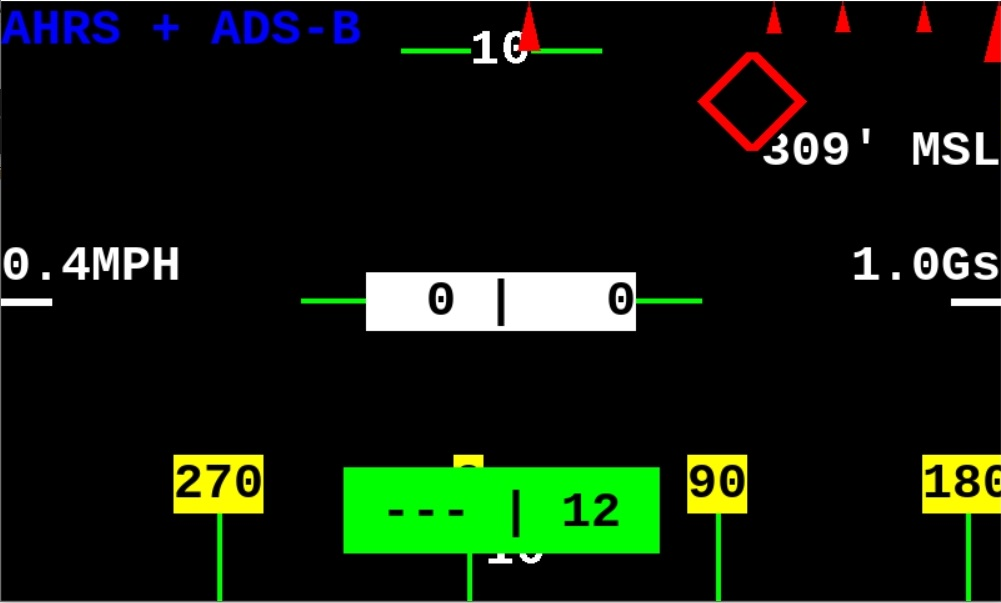
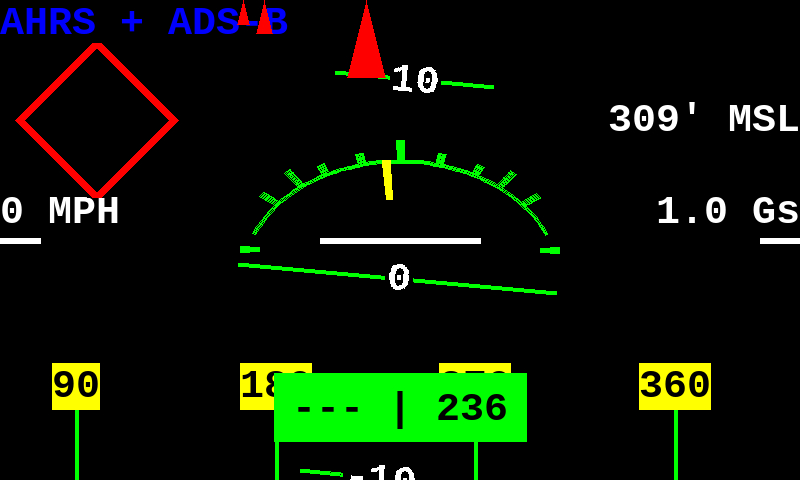
Update documentations to reflect V1.5

diff --git a/readme.md b/readme.md
@@ -60,7 +60,7 @@ Esc       | Send shutdown commands to both the HUD controller **and** the Stratu
 q         | (_Full keyboard only_) Quit to the command line.
 0/Ins     | Force a connection reset between the HUD and the Stratux
 
-## Views
+## Included (Default) Views
 
 - AHRS + ADS-B
 - Traffic
@@ -72,18 +72,18 @@ q         | (_Full keyboard only_) Quit to the command line.
 
 ### AHRS + ADS-B View
 
-![Traffic View Screenshot](media/ahrs_plus_adsb_view.jpg)
+![AHRS + ADS-B](media/ahrs_plus_adsb_view.jpg)
 
 This view shows attitude information along with targetting bugs that show the relative position and distance of traffic.
 
 In this example:
 
-- There are five potential targets, all at a higher altitude. Three are relatively far away. The one directly behind us (far right hand side) is the closest.
-- One of the five targets is within our field of view and has a targetting reticle.
-- With are at a level pitch and roll.
+- There are three (3) potential targets, all at a higher altitude. Two are relatively far away, one is closer.
+- One of the targets is within our field of view and has a targetting reticle.
+- With are rolled to the left slightly, less then 15 degrees.
 - We are 309 feet MSL.
-- We are traveling forward a 0.4MPH (taxing)
-- We have a GPS heading of 12, but do not have enough forward speed to obtain a heading from the AHRS chip. If the AHRS chip is unable to produce a reliable heading, `---` is shown for that portion of the heading.
+- We are stopped, with a groundspeed of 0MPH
+- We have a GPS heading of 236, but do not have enough forward speed to obtain a heading from the AHRS chip. If the AHRS chip is unable to produce a reliable heading, `---` is shown for that portion of the heading.
 
 _NOTE:_ This is the default view on startup. If you would like to switch to the `AHRS Only` You may press `-` on the keypad.
 
@@ -93,25 +93,27 @@ _NOTE:_ This is the default view on startup. If you would like to switch to the 
 
 This view shows a heading strip, target bugs, targetting reticles, and "information cards" about our potential traffic.
 
-In this example, `N2803K` is almost directly ahead of us (middle of the screen). The plane is 1.5 statute miles away, with a bearing of 51 degrees. We are currently on a heading of 012 degrees. The traffic is 500 feet above us.
+In this example, `N2849K` is almost directly behind us (far left screen). The plane is 1.5 statute miles away, with a bearing of 70 degrees, and 100 feet above us.
 
 ### Traffic Listing View
 
-![Traffic View Screenshot](media/traffic_listing_view.jpg)
+![Traffic Listing View Screenshot](media/traffic_listing_view.jpg)
 
 This shows us _at most_ the eight closest planes.
 
-The _IDENT(ifier will be the tail number when available, otherwise the IACO identifier or callsign may be used. The_ BEAR_ing is the heading to take to fly to that target. The_ DIST_ance is the distance to the target. The_ ALT*itude is given in relative terms, with two digits dropped.
+The *IDENT*ifier will be the tail number when available, otherwise the IACO identifier or callsign may be used. The *BEAR*ing is the heading to take to fly to that target. The *DIST*ance is the distance to the target. The *ALT*itude is given in relative terms, with two digits dropped.
 
-In this example, the closest target is QXE2382\. We may see that plane if we looked out the cockpit at a heading of 276\. The plane is only 1 statue mile away, and 11,200 feet above us.
+In this example, the closest target is N1213S. The plane is only 1.2 statue mile away, and 1,500 feet above us.
 
 ### Diagnostics View
 
-![Traffic View Screenshot](media/diagnostics_view.jpg)
+![Diagnostics View Screenshot](media/diagnostics_view.jpg)
 
 The diagnostics view is designed to help give some troubleshooting ability. If a value is set for "OWNSHIP" (See the configuration file section), then any report from that tailnumber is ignored. The IP addressis provided so you may use the configuration webpage if you set it up.
 
 ### Universal Time
+
+![Diagnostics View Screenshot](media/time_view.jpg)
 
 Shows the current time in UTC at the bottom of the screen.
 
